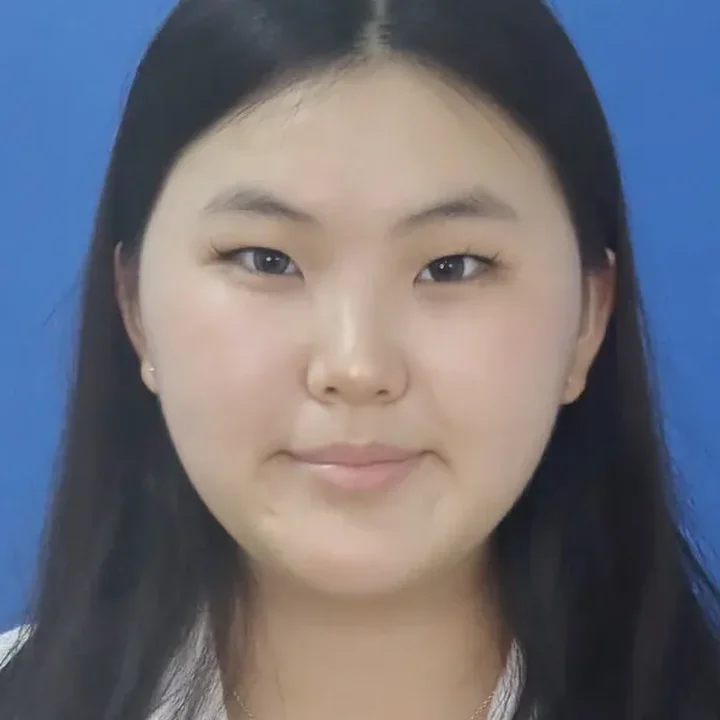
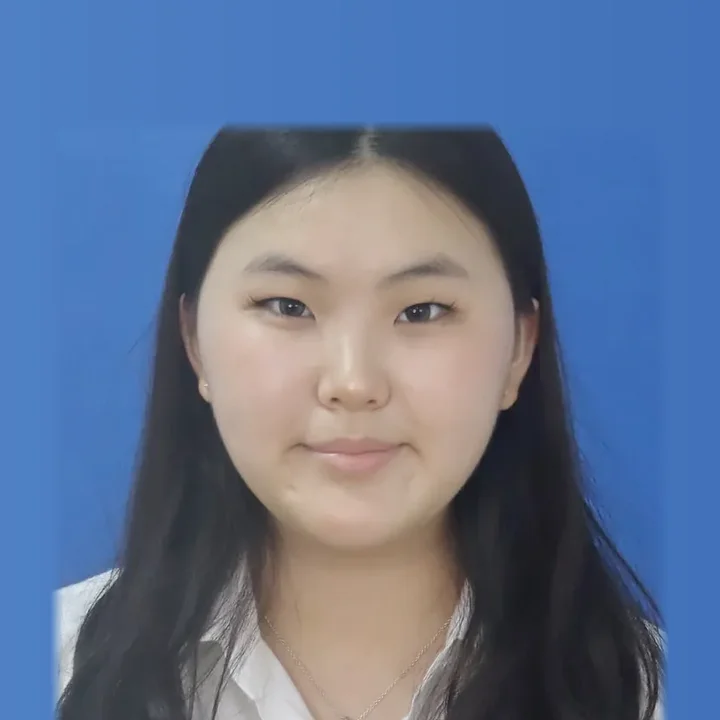
Zoom out Wern Wern portrait; new executives-section photo for Kundol

diff --git a/our-team/index.html b/our-team/index.html
@@ -37,7 +37,7 @@
             <li>
               <article class="card team-card">
                 <figure class="photo-slot" data-slot="team-exec-kundol" style="--ratio: 1 / 1;">
-                  <img src="../assets/images/founder-kundol.webp" alt="Portrait of Kundol Tangruthaiwanich" width="384" height="384" loading="lazy" decoding="async">
+                  <img src="../assets/images/team-exec-kundol.webp" alt="Portrait of Kundol Tangruthaiwanich" width="720" height="720" loading="lazy" decoding="async">
                 </figure>
                 <div class="team-card__body">
                   <h3 class="team-card__name">Kundol Tangruthaiwanich</h3>
